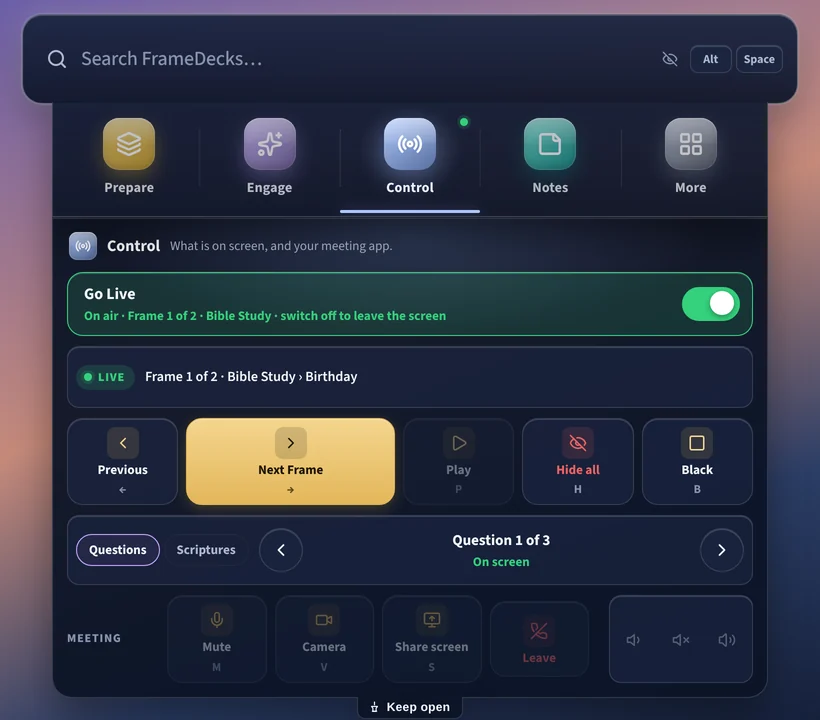
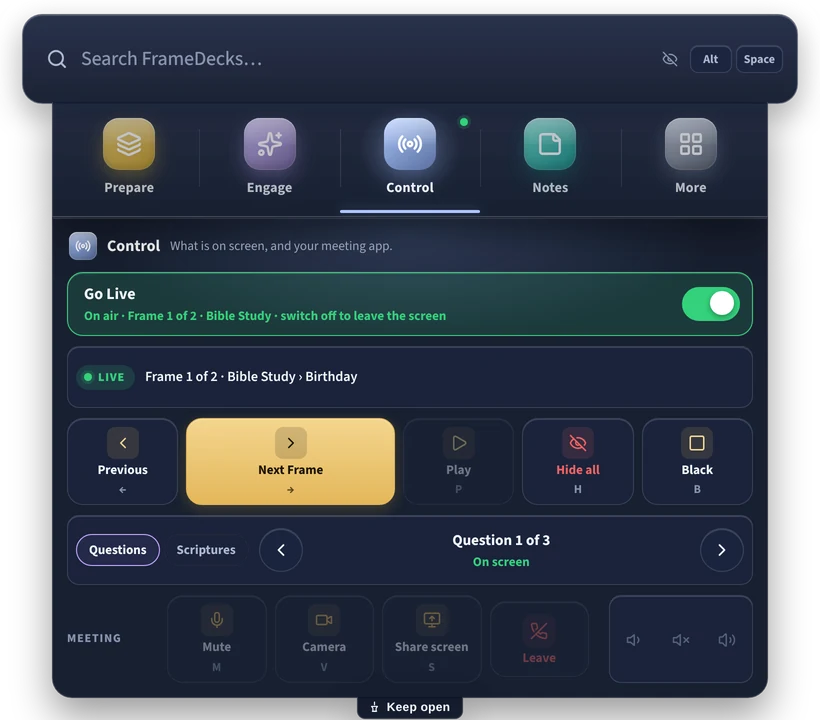
Website: the Command Center on the website's own background
- Its pictures are captured see-through, as the window is, so it sits on the page instead of a coloured desktop
  (make_product_shots command_center_web; the guide keeps its desktop pictures)
- After the Studio each screen stands on the page alone; the first Command Center a little larger

Changed region(s): [[0.0, 0.0, 1.0, 1.0]]

diff --git a/hosted/src/app/tour.css b/hosted/src/app/tour.css
@@ -266,8 +266,9 @@
   transform: none;
 }
 
+/* after the Studio, each screen stands on the page alone (the phone keeps the Studio beside it, as on the day) */
 .tr-stage:not([data-ch="0"]) .tr-base {
-  opacity: 0.2;
+  opacity: 0;
   transform: scale(0.97);
 }
 
@@ -540,11 +541,19 @@ html:not(.fd-calm) .tr-stage:not([data-ready]) :is(.tr-build > *, .tr-base) {
   box-shadow: 0 30px 70px -20px rgba(0, 0, 0, 0.75);
 }
 
+/* the Command Center is see-through, captured with nothing behind it: it sits on the page's own background */
+.tr-sc-cc img,
+.tr-sc-live img {
+  border: 0;
+  border-radius: 0;
+  box-shadow: none;
+}
+
 .tr-sc-cc {
   top: 120px;
-  left: 120px;
-  width: 760px;
-  height: 250px;
+  left: 40px;
+  width: 920px;
+  height: 303px;
 }
 
 .tr-sc-tp {

diff --git a/tools/make_product_shots.py b/tools/make_product_shots.py
@@ -53,6 +53,35 @@ async def command_center(b, base):
     await sp.wait_for_timeout(400)
 
 
+async def command_center_web(b, base):
+    """26.11.2 the website's Command Center pictures with nothing behind them (transparent): the see-through window sits
+    on the website's own background, as it sits on whatever app is open (the guide's pictures keep their desktop)."""
+    sp = await b.new_page(viewport={"width": 820, "height": 270}, device_scale_factor=2, reduced_motion="reduce")
+    await sp.goto(base + "/spotlight.html")
+    await sp.wait_for_timeout(1500)
+    await sp.evaluate("document.documentElement.classList.add('kc-glass');"
+                      "for (const e of [document.documentElement, document.body]) e.style.background = 'transparent'")
+    await sp.hover(".cc-handle")
+    await sp.wait_for_timeout(300)
+    from PIL import Image
+    tmp = CC_WEB.with_suffix(".png")
+    await sp.screenshot(path=str(tmp), animations="disabled", omit_background=True)
+    im = Image.open(tmp).convert("RGBA")
+    im.resize((820, round(820 * im.height / im.width)), Image.LANCZOS).save(CC_WEB, "WEBP", quality=88, method=6)
+    await sp.set_viewport_size({"width": 820, "height": 720})
+    await sp.evaluate("KCStore.update(n => { KCScenes.take(n, KCScenes.order(n)[0].id, null); })")
+    await sp.wait_for_timeout(800)
+    await sp.keyboard.press("Alt+3")
+    await sp.wait_for_timeout(1200)
+    await sp.screenshot(path=str(tmp), animations="disabled", omit_background=True)
+    im = Image.open(tmp).convert("RGBA")
+    im.resize((820, round(820 * im.height / im.width)), Image.LANCZOS).save(CC_LIVE_WEB, "WEBP", quality=88, method=6)
+    tmp.unlink()
+    await sp.evaluate("KCStore.update(n => { KCScenes.hideAll(n); n.live.scene = ''; })")
+    await sp.wait_for_timeout(400)
+    await sp.close()
+
+
 async def guide_studio(b, base):
     """26.11.2 the user guide's Studio (live, the question cards under the preview) and a card edited on the live
     preview (the draft with Update screen)."""
@@ -111,11 +140,8 @@ async def annotate(b, base):
 
 
 def web_copies():
-    """26.11.2 the guide's Command Center pictures, as small webp for the landing."""
+    """26.11.2 the phone remote's picture (from the guide's), as a small webp for the landing."""
     from PIL import Image
-    for src, dst in ((COMMAND_CENTER, CC_WEB), (SPOTLIGHT, CC_LIVE_WEB)):
-        im = Image.open(src).convert("RGB")
-        im.resize((820, round(820 * im.height / im.width)), Image.LANCZOS).save(dst, "WEBP", quality=86, method=6)
     im = Image.open(PHONE_SHOT).convert("RGB")
     im.resize((390, round(390 * im.height / im.width)), Image.LANCZOS).save(PHONE_WEB, "WEBP", quality=86, method=6)
 
@@ -152,6 +178,7 @@ async def capture(base, chromium, guide_only=False):
         await pg.wait_for_timeout(300)
         await pg.screenshot(path=str(TMP), animations="disabled")
         await command_center(b, base)       # 9.9 the Command Center, in the dark theme
+        await command_center_web(b, base)   # 26.11.2 and with nothing behind it, for the website
         await guide_studio(b, base)
         await annotate(b, base)
         await b.close()

diff --git a/docs/CHANGELOG.md b/docs/CHANGELOG.md
@@ -30,6 +30,10 @@ Changes before 26.11 are kept in [docs/archive/changelog-before-26.11.md](archiv
   always: `layout.tsx` sets `html.fd-dark-only` before the first paint for a visitor who is not signed in and on the
   public paths, the public pages' bar (`landing/nav.tsx`) holds it and has no theme button, and Light, Dark and Auto
   live only in the signed-in workspace (`ThemeToggle` in `app-shell.tsx` clears it on arrival).
+- The front page's Command Center pictures have nothing behind them (captured see-through, as the window is, by
+  `command_center_web` in `tools/make_product_shots.py`), so the Command Center sits on the website's own background
+  instead of a coloured desktop; the guide's pictures keep their desktop. After the Studio, each screen stands on the
+  page alone.
 - The front page's stage has no frame any more: the build, the Studio and each screen float on the page itself, each
   with its own soft shadow, in a soft light that takes the colour of the chapter (`.tr-glows`, one gradient per
   chapter, only its opacity changes).
